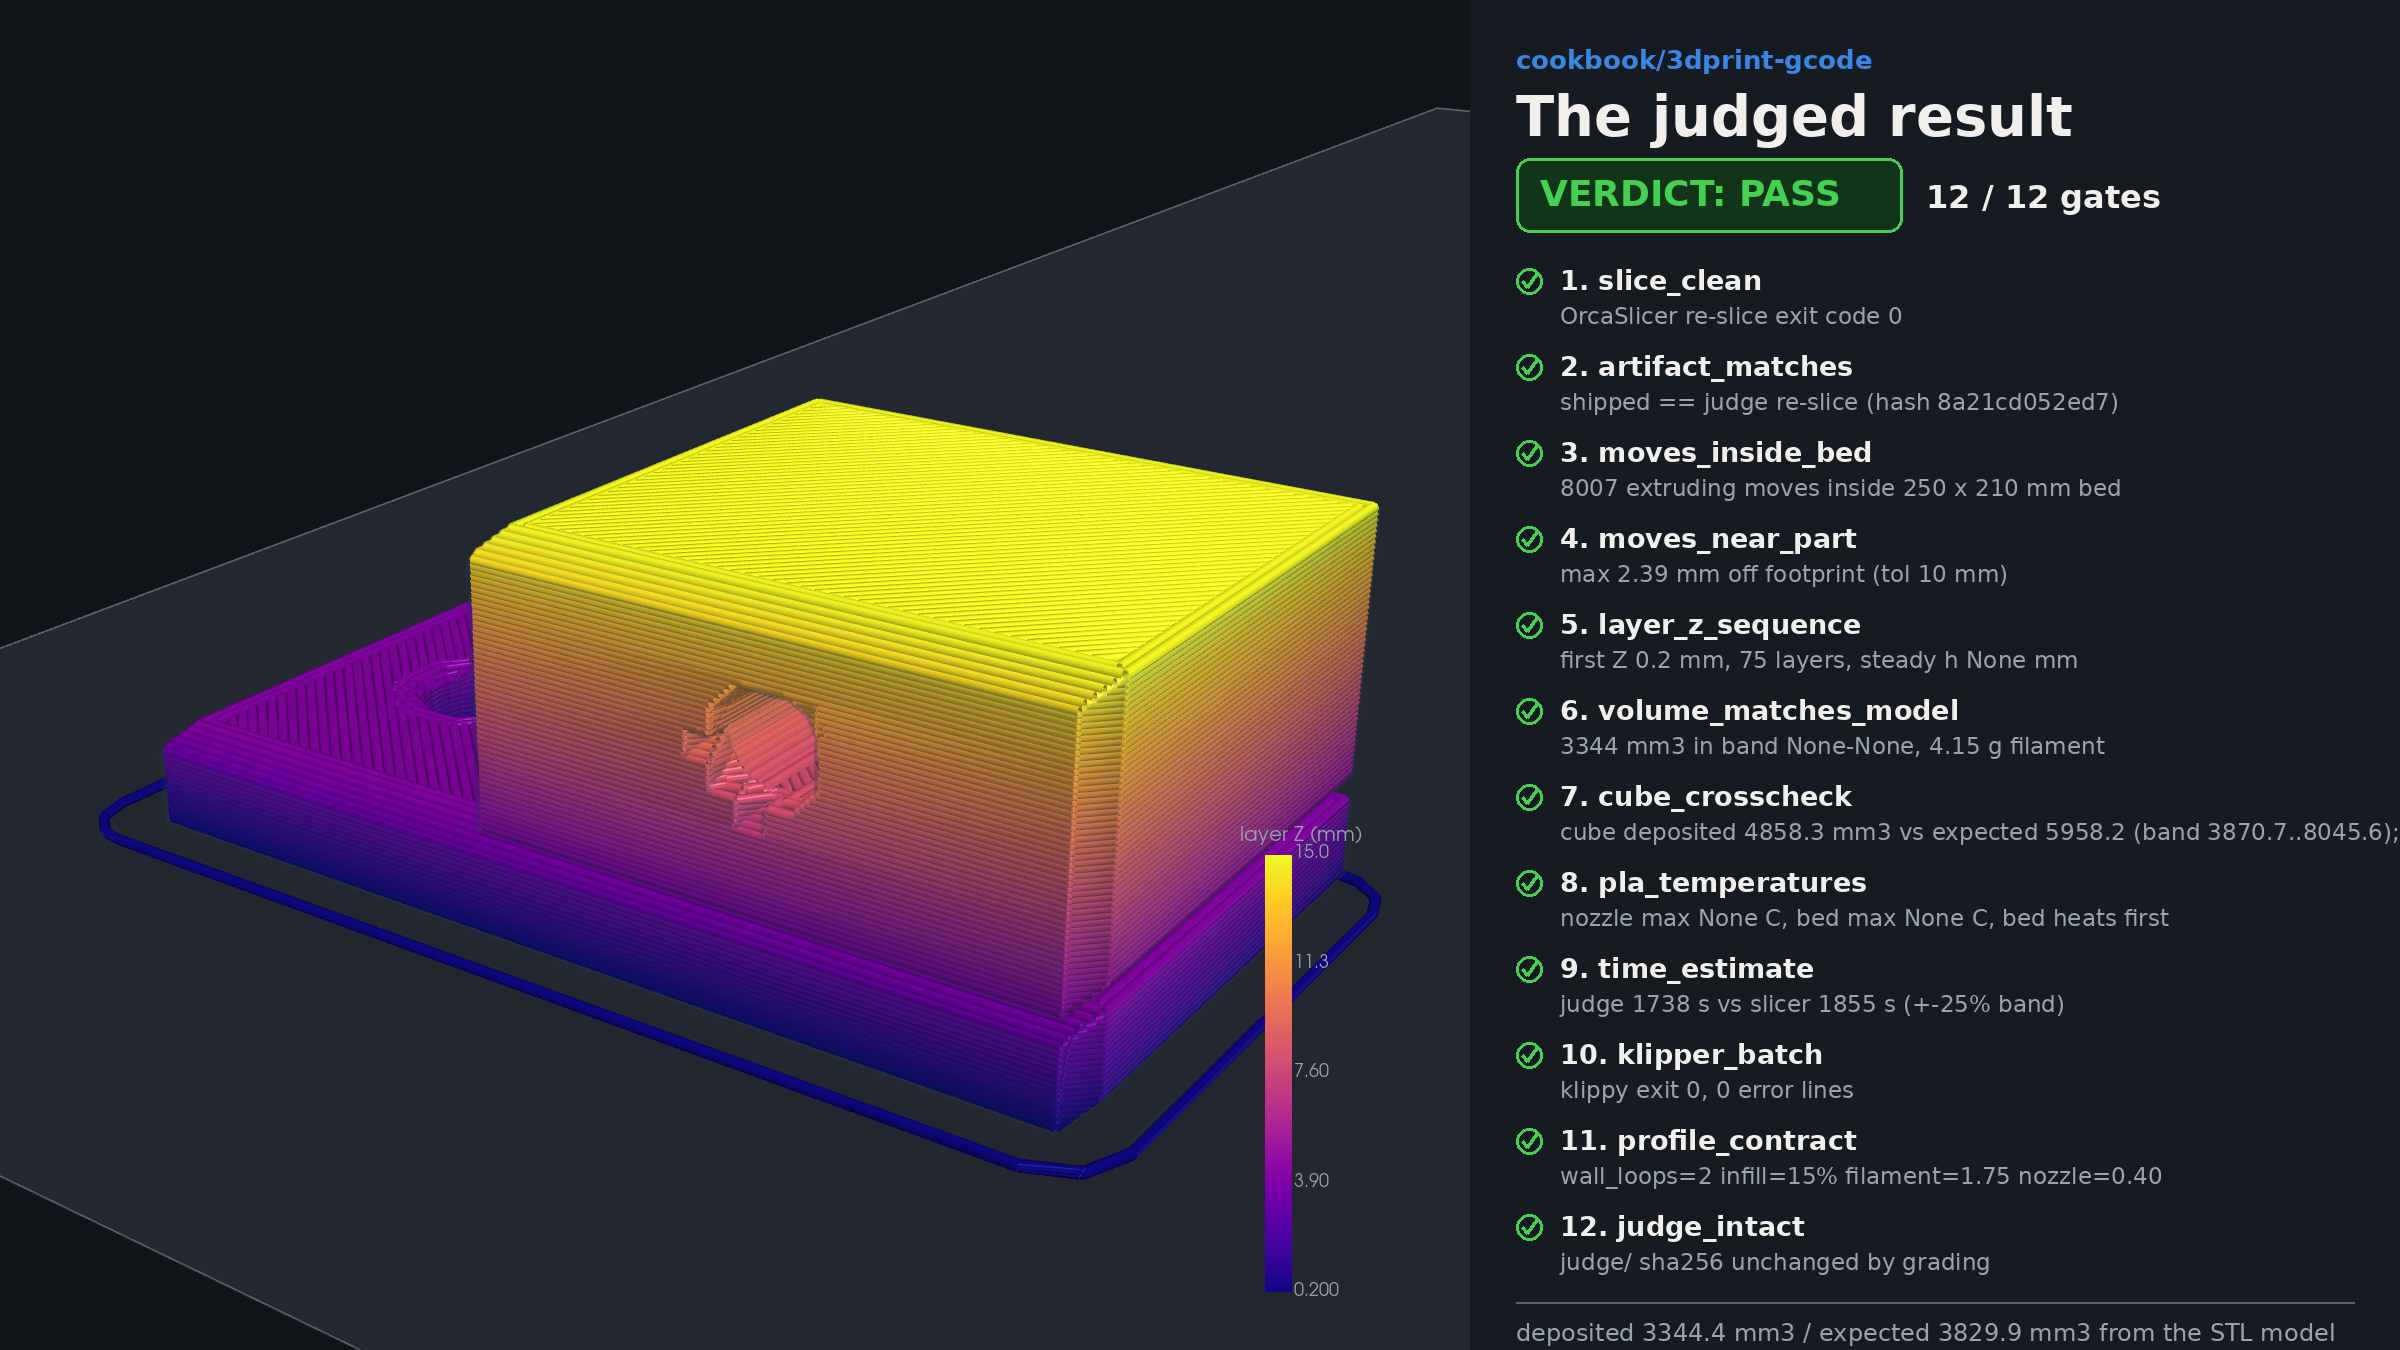
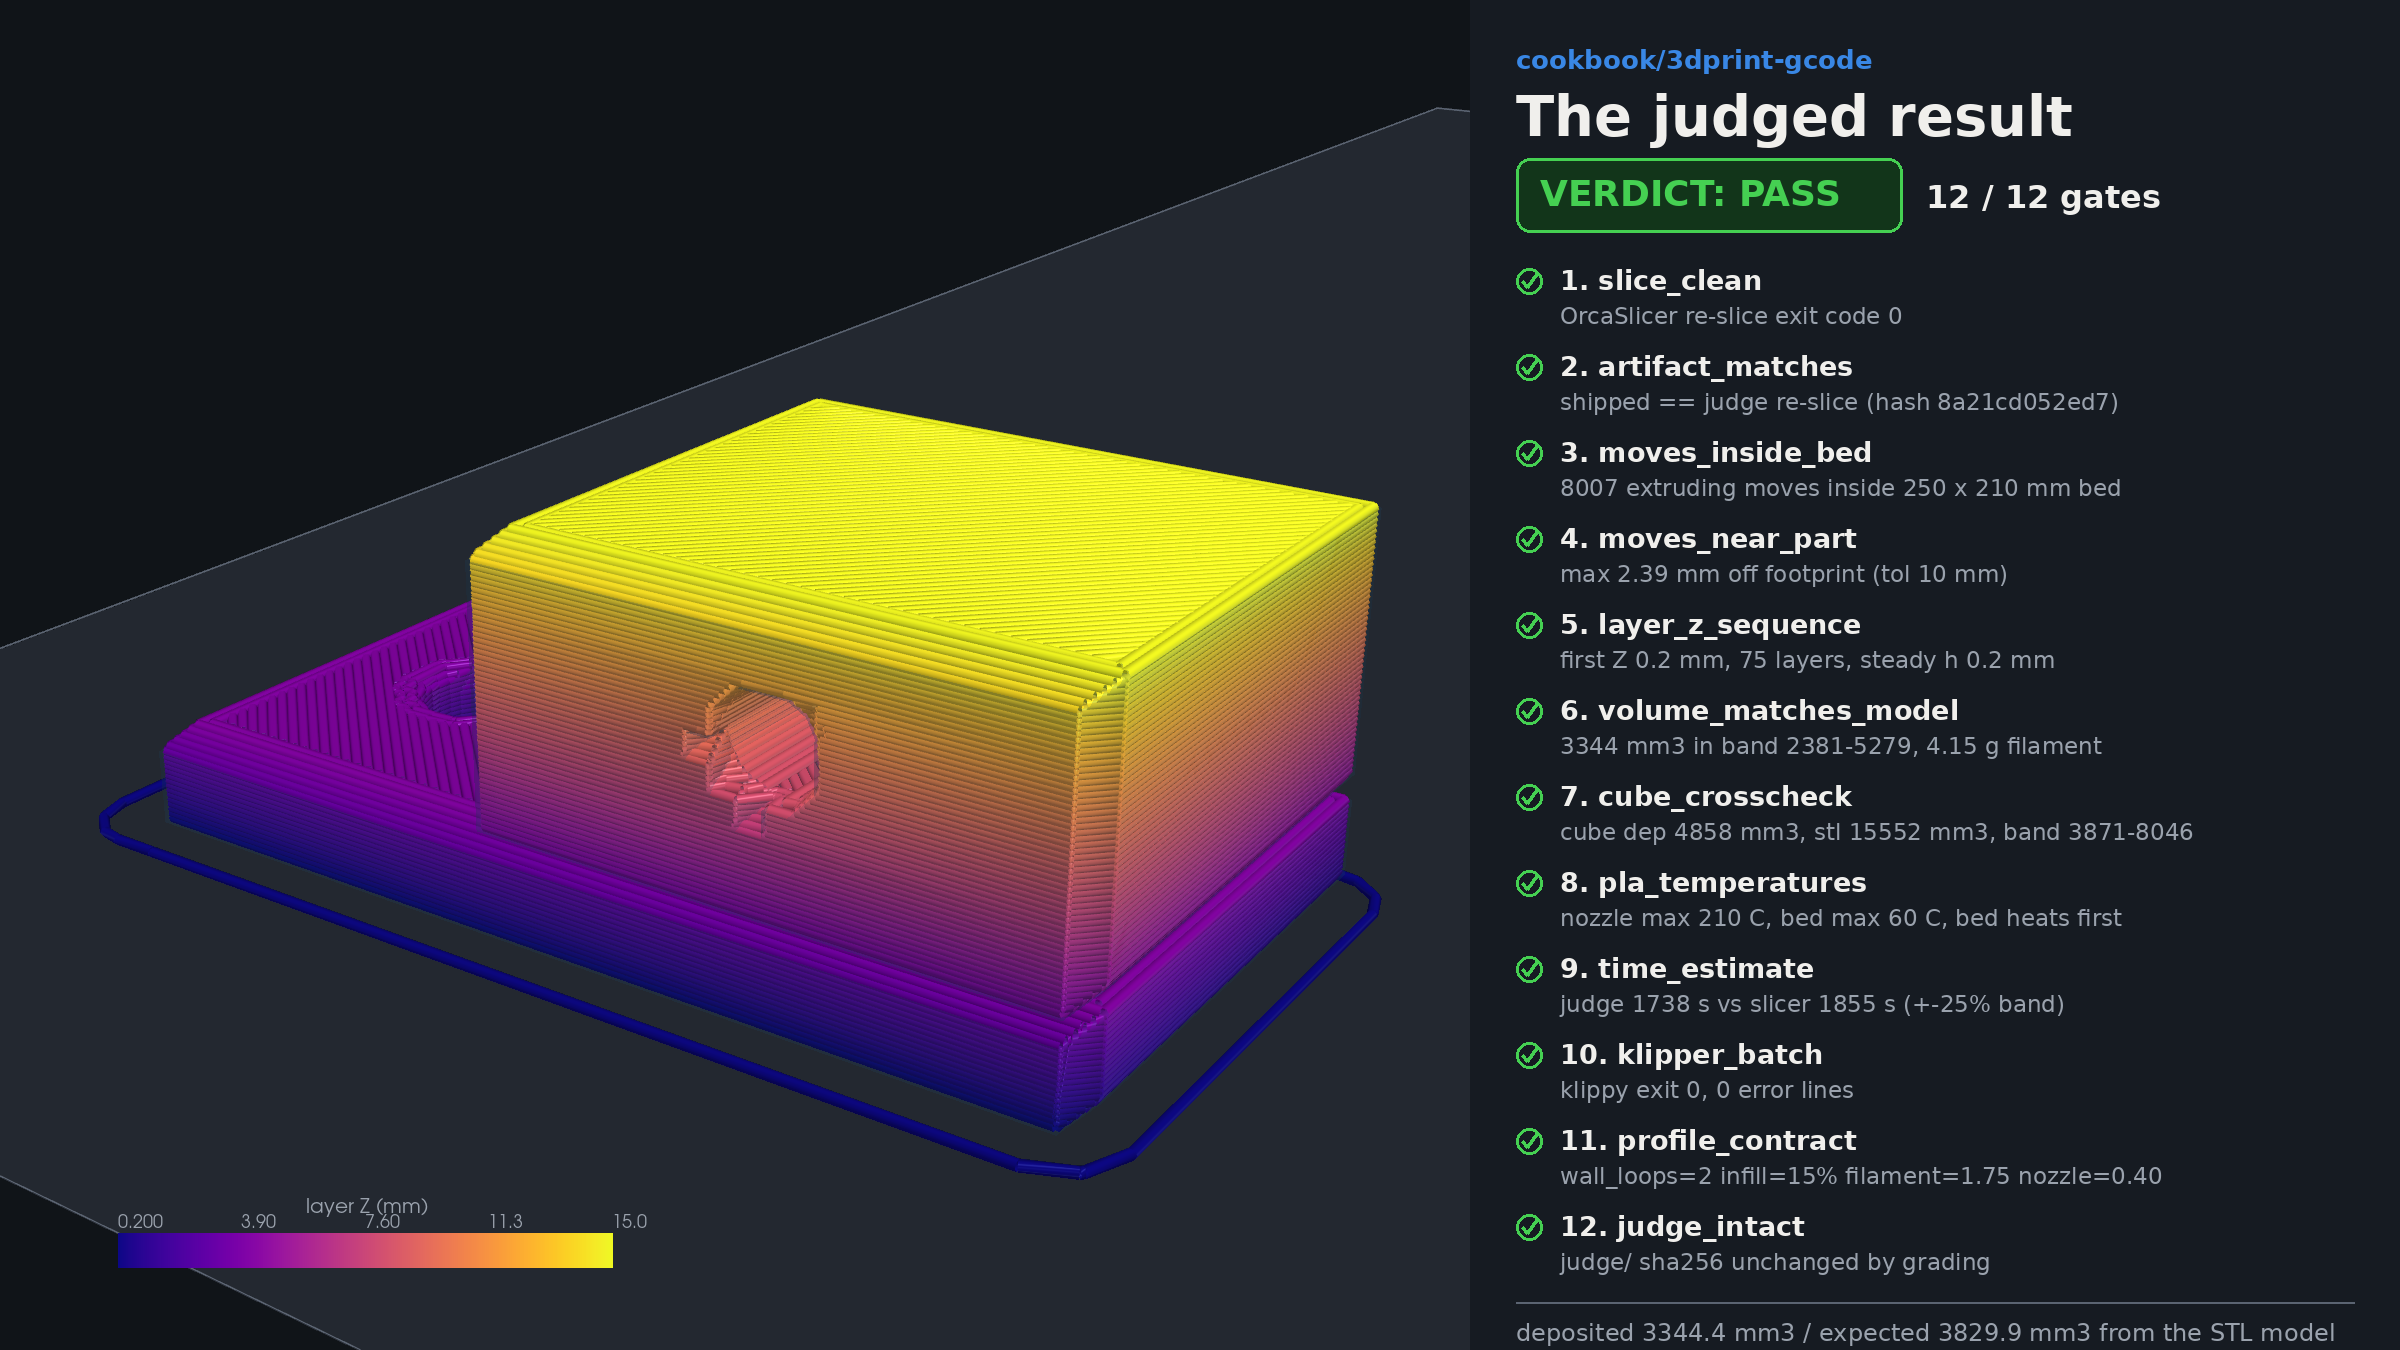
fix(cookbook/3dprint-gcode): result.png gate text and color bar

diff --git a/cookbook/3dprint-gcode/media/make_result.py b/cookbook/3dprint-gcode/media/make_result.py
@@ -52,11 +52,11 @@ def render3d(out_w, out_h):
     pd, _ = rt.bead_mesh(trace)
     pl.add_mesh(pd, scalars="layer_z", cmap="plasma", smooth_shading=True,
                 specular=0.35, specular_power=24, diffuse=0.8, ambient=0.3,
-                scalar_bar_args={"title": "layer Z (mm)", "vertical": True,
-                                 "position_x": 0.045, "position_y": 0.70,
+                scalar_bar_args={"title": "layer Z (mm)", "vertical": False,
+                                 "position_x": 0.08, "position_y": 0.06,
                                  "color": MUTED, "title_font_size": 20,
-                                 "label_font_size": 18, "width": 0.05,
-                                 "height": 0.24})
+                                 "label_font_size": 18, "width": 0.34,
+                                 "height": 0.07})
     stl = rt.bracket_mesh()
     pl.add_mesh(stl, color="#2e6f9e", opacity=0.16, smooth_shading=True,
                 specular=0.15, diffuse=0.6, ambient=0.3)
@@ -83,15 +83,14 @@ def gate_line(name, g, m):
         "moves_near_part": "max %s mm off footprint (tol 10 mm)" % num("max_dist_from_footprint_mm"),
         "layer_z_sequence": "first Z %s mm, %s layers, steady h %s mm" % (
             num("first_layer_z_mm"), num("layer_count", "{:.0f}"),
-            num("steady_layer_height_mm[0]", "{:.3g}") if m["steady_layer_height_mm"] else "-"),
+            "{:.3g}".format(m["steady_layer_height_mm"][0]) if m["steady_layer_height_mm"] else "-"),
         "volume_matches_model": "%s mm3 in band %s-%s, %s g filament" % (
-            num("deposited_volume_mm3"), num("volume_band_mm3[0]", "{:.0f}"),
-            num("volume_band_mm3[1]", "{:.0f}"), num("filament_mass_g")),
-        "cube_crosscheck": "cube %s mm3 in band %.0f-%.0f" % (
-            num("cube_deposited_mm3"), m["cube_stl_volume_mm3"] * 0.25,
-            m["cube_stl_volume_mm3"] * 0.52) if False else g["detail"],
+            num("deposited_volume_mm3"), "{:.0f}".format(m["volume_band_mm3"][0]),
+            "{:.0f}".format(m["volume_band_mm3"][1]), num("filament_mass_g")),
+        "cube_crosscheck": "cube dep %s mm3, stl %.0f mm3, band 3871-8046" % (
+            num("cube_deposited_mm3"), m["cube_stl_volume_mm3"]),
         "pla_temperatures": "nozzle max %s C, bed max %s C, bed heats first" % (
-            num("nozzle_setpoints_c[1]", "{:.0f}"), num("bed_setpoints_c[1]", "{:.0f}")),
+            "{:.0f}".format(m["nozzle_setpoints_c"][1]), "{:.0f}".format(m["bed_setpoints_c"][1])),
         "time_estimate": "judge %s s vs slicer %s s (+-25%% band)" % (
             num("judge_time_s", "{:.0f}"), num("slicer_time_s", "{:.0f}")),
         "klipper_batch": "klippy exit 0, %s error lines" % num("klipper_bad_lines", "{:.0f}"),
